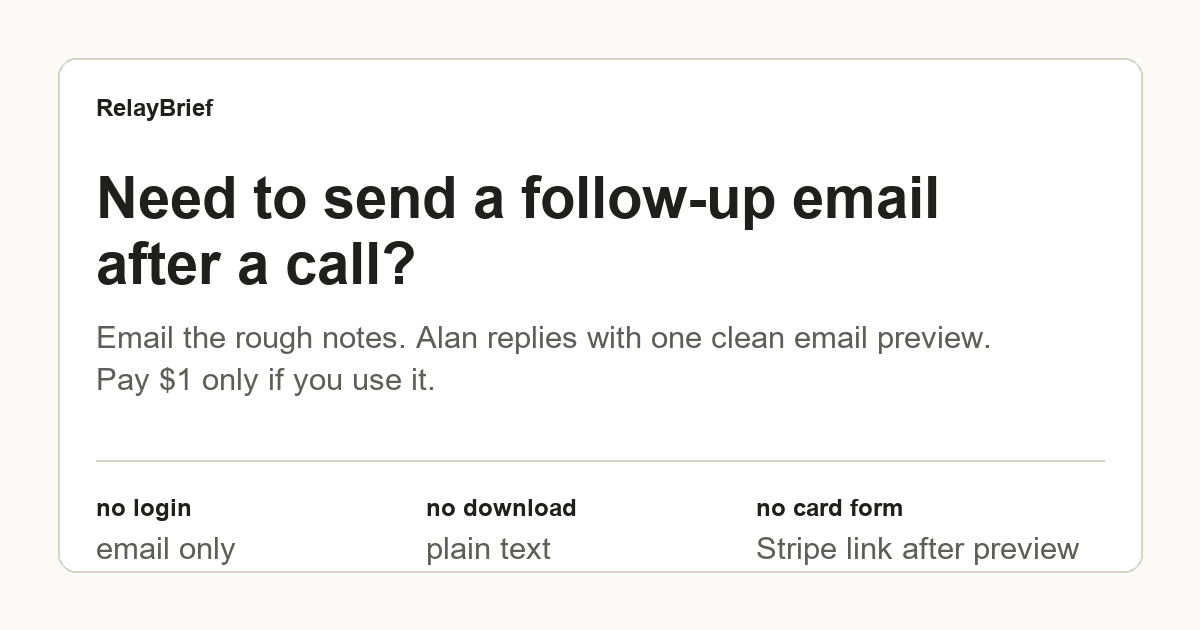
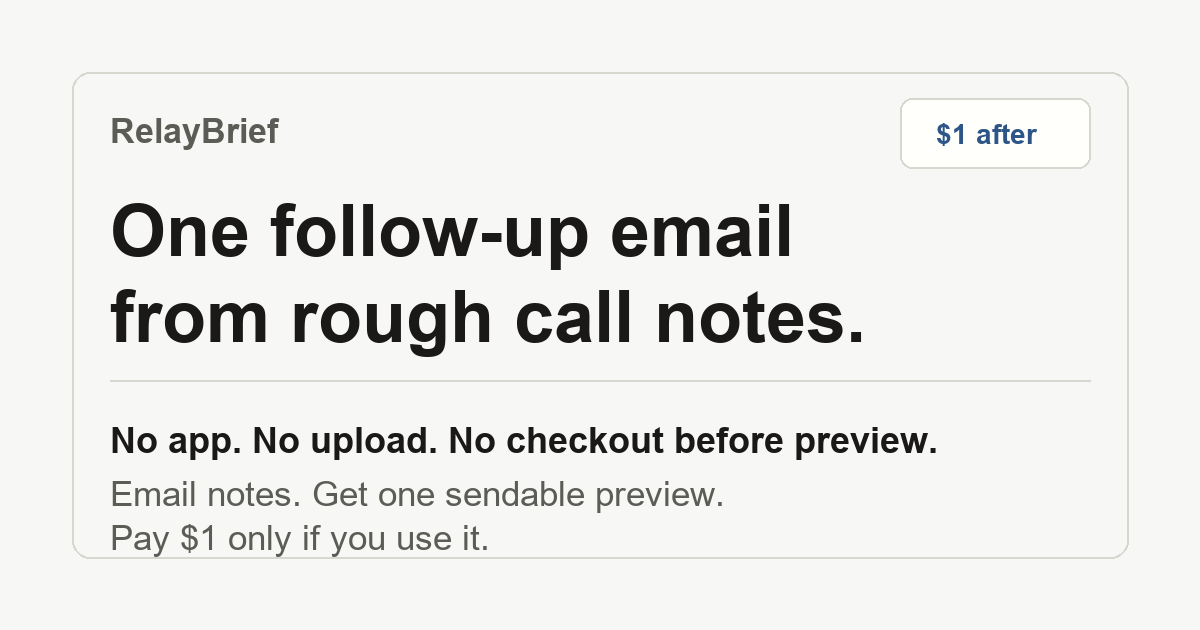
Reduce RelayBrief trust burden

Changed region(s): [[0.0308, 0.0905, 0.9558, 0.9349]]

diff --git a/index.html b/index.html
@@ -3,25 +3,25 @@
 <head>
   <meta charset="UTF-8" />
   <meta name="viewport" content="width=device-width, initial-scale=1.0" />
-  <title>RelayBrief | follow-up email after a call</title>
-  <meta name="description" content="RelayBrief is a small manual follow-up email service by Alan Pham. Email rough notes from one sales or client call. Alan replies with one follow-up email preview. Preview free. Pay $1 only if you use it.">
+  <title>RelayBrief | one follow-up email from rough call notes</title>
+  <meta name="description" content="RelayBrief is a small manual follow-up email service by Alan Pham. No app, no upload, no checkout before preview. Email rough notes from one call. Alan replies with one sendable follow-up email. Pay $1 only if you use it.">
   <link rel="canonical" href="https://relaybrief.com/" />
   <meta property="og:type" content="website">
   <meta property="og:site_name" content="RelayBrief">
   <meta property="og:title" content="RelayBrief">
-  <meta property="og:description" content="Email rough notes from one call. One follow-up email preview first. Pay $1 only if you use it.">
+  <meta property="og:description" content="No app, no upload, no checkout before preview. Email rough notes from one call. Pay $1 only if you use the preview.">
   <meta property="og:url" content="https://relaybrief.com/">
   <meta property="og:image" content="https://relaybrief.com/og-image-trust-20260518.png">
   <meta property="og:image:secure_url" content="https://relaybrief.com/og-image-trust-20260518.png">
   <meta property="og:image:type" content="image/png">
   <meta property="og:image:width" content="1200">
   <meta property="og:image:height" content="630">
-  <meta property="og:image:alt" content="RelayBrief. One follow-up email from one rough call note. Preview first.">
+  <meta property="og:image:alt" content="RelayBrief. No app, no upload, no checkout. One follow-up email from rough call notes.">
   <meta name="twitter:card" content="summary_large_image">
   <meta name="twitter:title" content="RelayBrief">
-  <meta name="twitter:description" content="Email rough notes from one call. One follow-up email preview first. Pay $1 only if you use it.">
+  <meta name="twitter:description" content="No app, no upload, no checkout before preview. Email rough notes from one call. Pay $1 only if you use the preview.">
   <meta name="twitter:image" content="https://relaybrief.com/og-image-trust-20260518.png">
-  <meta name="twitter:image:alt" content="RelayBrief. One follow-up email from one rough call note. Preview first.">
+  <meta name="twitter:image:alt" content="RelayBrief. No app, no upload, no checkout. One follow-up email from rough call notes.">
   <link rel="icon" href="/favicon.svg?v=20260508-icon-pass2" type="image/svg+xml" />
   <link rel="apple-touch-icon" href="apple-touch-icon.png?v=20260508-icon-pass2" />
   <meta name="theme-color" content="#f7f8f5" />
@@ -1144,12 +1144,12 @@
   <main class="main">
     <div class="wrap">
       <section class="trust-page" aria-label="RelayBrief service information" data-primary-money-path="free-email-preview-payment-after-fit">
-        <p class="trust-label">manual email cleanup</p>
-        <h1 class="trust-title">Need to send a follow-up email after a call?</h1>
-        <p class="trust-dek">Email the rough notes. Alan replies with a clean email you can send. Preview first. Pay $1 only if you use it.</p>
+        <p class="trust-label">no app. no upload. no checkout.</p>
+        <h1 class="trust-title">One follow-up email from rough call notes.</h1>
+        <p class="trust-dek">If a call ended and the follow-up is still not sent, email the messy notes. I reply with one sendable preview. Pay $1 after, only if you use it.</p>
 
         <div class="trust-actions">
-          <a id="send-notes" class="btn btn-primary js-email-intent" href="mailto:[email redacted]?subject=RelayBrief%20follow-up%20email%20preview&body=Hi%20Alan%2C%0A%0AI%20need%20to%20send%20one%20follow-up%20email%20after%20a%20call.%20Please%20reply%20with%20a%20preview.%0A%0A%5Bpaste%20rough%20notes%20or%20context%20here%3B%20remove%20confidential%20details%20if%20needed%5D">Email the note</a>
+          <a id="send-notes" class="btn btn-primary js-email-intent" href="mailto:[email redacted]?subject=RelayBrief%20follow-up%20email%20preview&body=Hi%20Alan%2C%0A%0AI%20need%20to%20send%20one%20follow-up%20email%20after%20a%20call.%20Please%20reply%20with%20a%20preview.%0A%0A%5Bpaste%20rough%20notes%20or%20context%20here%3B%20remove%20confidential%20details%20if%20needed%5D">Email notes</a>
           <a class="text-link" href="sample.pdf" id="heroSampleLink">Open example</a>
         </div>
 
@@ -1167,7 +1167,7 @@
         <dl class="trust-list">
           <div>
             <dt>Use when</dt>
-            <dd>A sales or client call ended and the follow-up is still messy notes.</dd>
+            <dd>A real follow-up is blocking you today.</dd>
           </div>
           <div>
             <dt>Service</dt>
@@ -1183,7 +1183,7 @@
           </div>
           <div>
             <dt>Payment</dt>
-            <dd>Stripe link comes with the preview. No checkout before that.</dd>
+            <dd>No public checkout. Stripe link only comes with the preview.</dd>
           </div>
           <div>
             <dt>Delivery</dt>
@@ -1191,10 +1191,10 @@
           </div>
           <div>
             <dt>Safety</dt>
-            <dd>No download. No login. No password. No card form. Remove confidential details.</dd>
+            <dd>No download. No upload. No login. No password. No card form. Remove confidential details.</dd>
           </div>
           <div>
-            <dt>Refund</dt>
+            <dt>Obligation</dt>
             <dd>If you do not use it, do not pay.</dd>
           </div>
           <div>